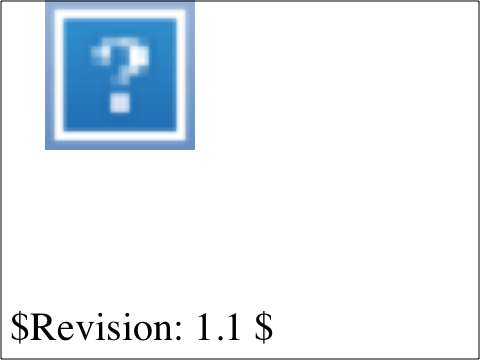
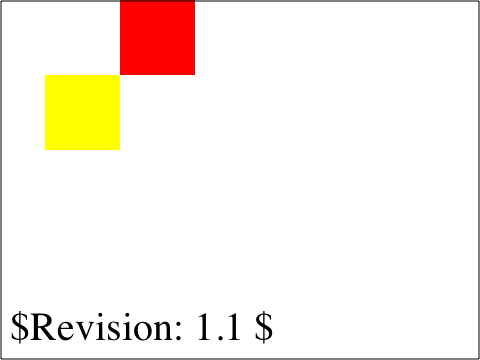
2006-12-29  Eric Seidel  <eric@webkit.org>
Reviewed by hyatt.

        New tests:
        * fast/images/svg-as-image.html
        * fast/images/svg-as-background.html
        * fast/images/svg-as-tiled-background.html
        
        Implement basic SVGImage support.
        http://bugs.webkit.org/show_bug.cgi?id=5971
        
        This implementation depends on (rather ugly) stub Page and Frame clients in SVGImageEmptyClients.h

        * WebCore.xcodeproj/project.pbxproj: add SVGImage.*
        * ksvg2/svg/SVGFEImageElement.cpp:
        (WebCore::SVGFEImageElement::parseMappedAttribute): ignore fragment urls
        * loader/CachedImage.cpp:
        (WebCore::CachedImage::createImage):
        * platform/graphics/Image.h: made setData virtual
        * platform/graphics/cg/PDFDocumentImage.cpp:
        (WebCore::PDFDocumentImage::drawTiled): stub method
        * platform/graphics/cg/PDFDocumentImage.h:
        * platform/graphics/svg/SVGImage.cpp: Added.
        (WebCore::SVGImage::SVGImage):
        (WebCore::SVGImage::~SVGImage):
        (WebCore::SVGImage::size):
        (WebCore::SVGImage::draw):
        (WebCore::SVGImage::drawTiled): stub method
        (WebCore::SVGImage::setData):
        * platform/graphics/svg/SVGImage.h: Added.
        (WebCore::SVGImage::frameAtIndex):
        * platform/graphics/svg/SVGImageEmptyClients.h: Added.
        (WebCore::SVGEmptyCromeClient::~SVGEmptyCromeClient):
        (WebCore::SVGEmptyCromeClient::chromeDestroyed):
[…]

Changed region(s): [[0.0938, 0.0, 0.4062, 0.4278]]

diff --git a/fast/images/svg-as-tiled-background.html b/fast/images/svg-as-tiled-background.html
@@ -1,0 +1,19 @@
+<html>
+<head>
+<style>
+div {
+  background: red;
+  background-repeat: repeat;
+  -webkit-background-size: 50%;
+  background-image: url(resources/green-fixed-size-rect.svg);
+  height: 100px;
+  width: 100px;
+}
+</style>
+</head>
+<body style='margin: 0px'>
+<div>
+  &nbsp;
+</div>
+</body>
+</html>

diff --git a/fast/images/svg-as-background.html b/fast/images/svg-as-background.html
@@ -1,0 +1,16 @@
+<html>
+<head>
+<style>
+div {
+  background: red;
+  background-repeat: no-repeat;
+  background-image: url(resources/green-fixed-size-rect.svg);
+  height: 100px;
+  width: 100px;
+}
+</style>
+</head>
+<body style='margin: 0px'>
+<div>&nbsp;</div>
+</body>
+</html>

diff --git a/fast/images/svg-as-image.html b/fast/images/svg-as-image.html
@@ -1,0 +1,16 @@
+<html>
+<head>
+<style>
+div {
+  background: red;
+  height: 100px;
+  width: 100px;
+}
+</style>
+</head>
+<body style='margin: 0px'>
+<div>
+  <img src='resources/green-fixed-size-rect.svg'>
+</div>
+</body>
+</html>
